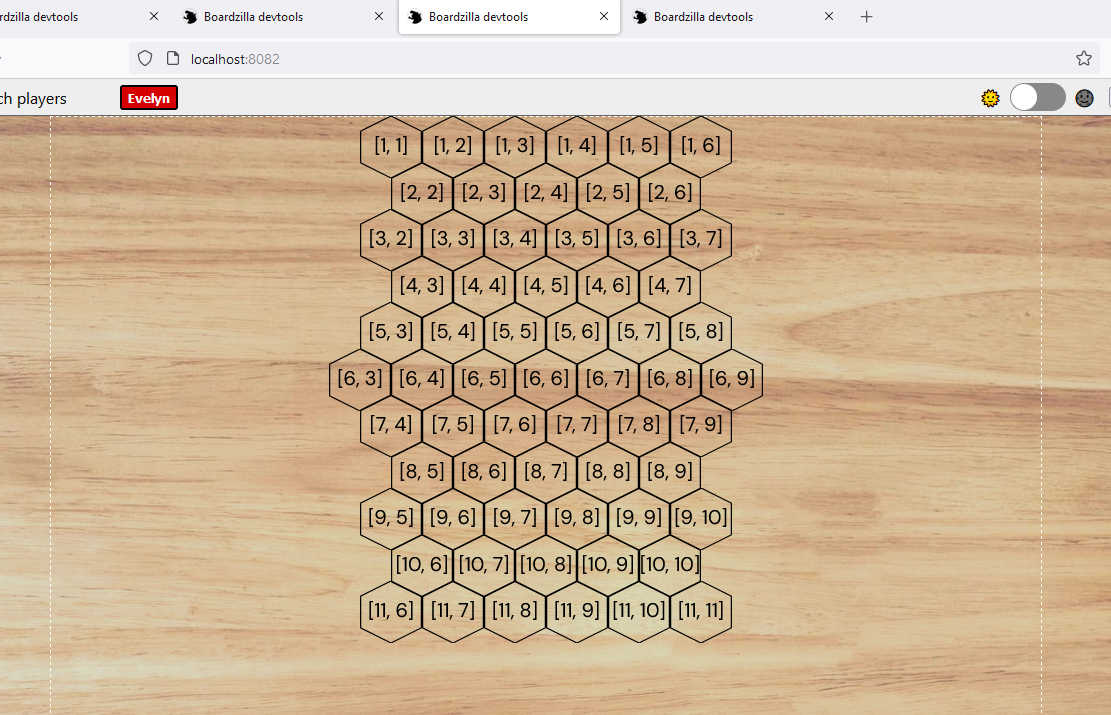
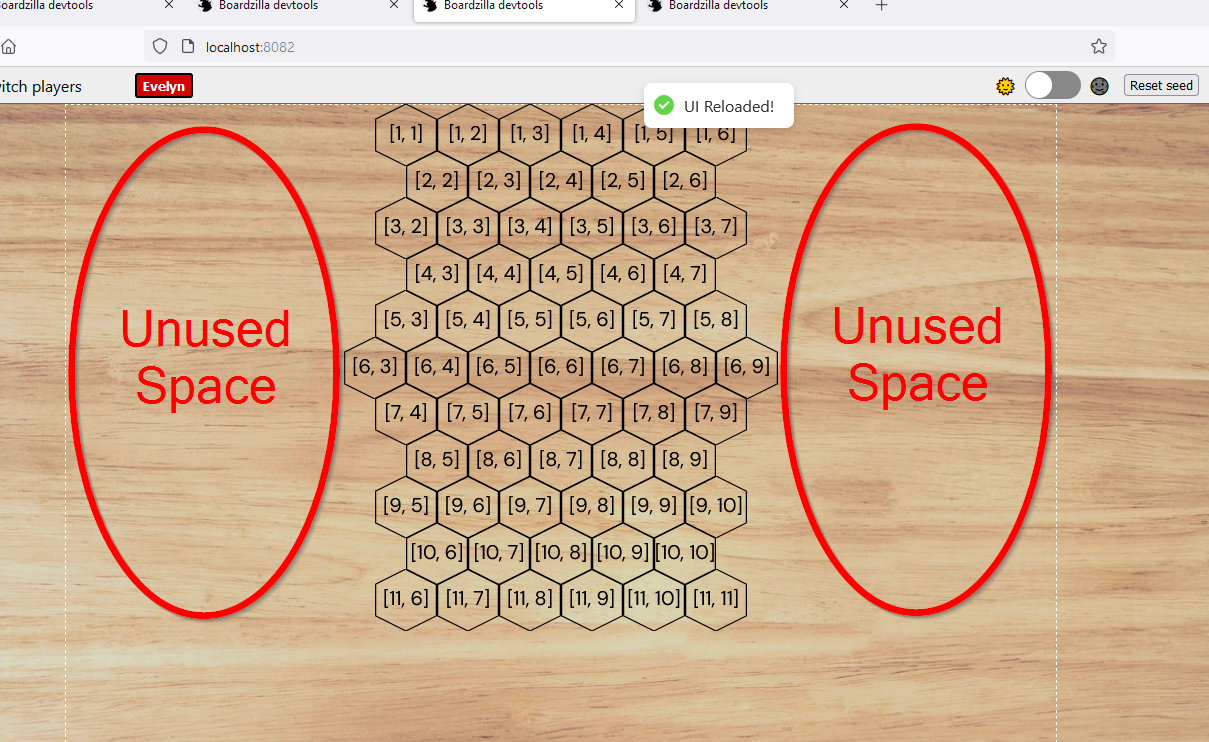
try to make it a little clearer

diff --git a/src/game/index.ts b/src/game/index.ts
@@ -38,9 +38,9 @@ export default createGame(HexGridTestPlayer, HexGridTestBoard, game => {
   board.createGrid({ rows: 1, columns: NUM_SLICE_COLUMNS, style: 'square'}, SliceColumn, 'slice-column');
 
   // I don't want all the hex spaces, just the ones in the middle, so destroy the edge ones
-  // board.all(HexSpace)
-  //   .filter(hs => !isBoardSpace(hs.row!, hs.column!))
-  //   .forEach(hs => hs.destroy());
+  board.all(HexSpace)
+    .filter(hs => !isBoardSpace(hs.row!, hs.column!))
+    .forEach(hs => hs.destroy());
 
 
 
